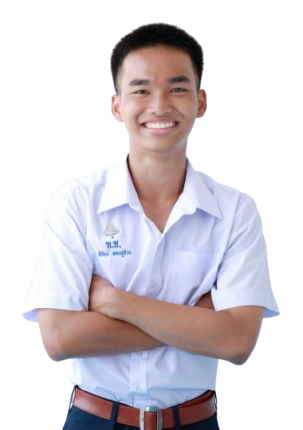
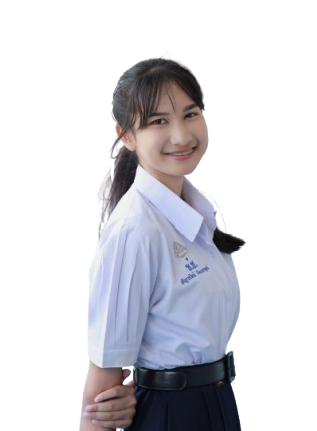
Add files via upload

diff --git a/style.css b/style.css
@@ -1181,7 +1181,7 @@ body::before {
     z-index: 1; 
     
     /* 🎨 ขั้นตอนที่ 1: ปรับเนื้ออักษรให้จางมากๆ จนแทบกลืนไปกับพื้นหลัง */
-    background: linear-gradient(180deg, rgba(255, 255, 255, 0.015) 0%, rgba(59, 130, 246, 0.05) 100%);
+    background: linear-gradient(180deg, rgba(255, 255, 255, 0.04) 0%, rgba(59, 130, 246, 0.08) 100%);
     -webkit-background-clip: text;
     -webkit-text-fill-color: transparent;
     background-clip: text;
@@ -1192,8 +1192,8 @@ body::before {
     /* ✨ ขั้นตอนที่ 3: ใส่เอฟเฟกต์เบลอตัวอักษรเบาๆ เพื่อลบความเหลี่ยมคม 
        ร่วมกับการซ้อนเงาฟุ้งสเต็ปนุ่มนวล (Soft Glow) */
     filter: blur(2px)
-            drop-shadow(0 0 20px rgba(59, 130, 246, 0.5))
-            drop-shadow(0 0 60px rgba(59, 130, 246, 0.2));
+            drop-shadow(0 0 20px rgba(59, 130, 246, 1.5))
+            drop-shadow(0 0 60px rgba(59, 130, 246, 1));
     
     user-select: none;     
     pointer-events: none;  
@@ -1229,5 +1229,30 @@ body::before {
         padding-left: 20px !important;
         padding-right: 20px !important;
         text-align: center; /* เผื่ออยากให้ข้อความอยู่กึ่งกลางบนมือถือ */
+    }
+}
+
+/* ==========================================================================
+   🚫 FIX: บังคับให้ชื่อ-นามสกุลของสมาชิกอยู่ในบรรทัดเดียวกันเสมอ ไม่ตกบรรทัด
+   ========================================================================== */
+
+.member-info .name {
+    white-space: nowrap; /* 🚫 ห้ามขึ้นบรรทัดใหม่เด็ดขาด ยาวแค่ไหนก็ให้อยู่แถวเดิม */
+    word-break: keep-all; /* ป้องกันการตัดแบ่งกลางคำ */
+}
+
+/* 📱 ควบคุมขนาดเพิ่มเติมเมื่อแสดงผลบนหน้าจอมือถือ */
+@media screen and (max-width: 768px) {
+    .member-info .name {
+        /* ปรับขนาดฟอนต์บนมือถือลงเล็กน้อย (เช่น 1.5rem ถึง 1.8rem) 
+           เพื่อให้ชื่อที่ยาวมากๆ ยังสามารถยัดลงในหน้าจอมือถือได้พอดีโดยไม่ล้นขอบครับ */
+        font-size: 1.6rem !important; 
+    }
+}
+
+@media screen and (max-width: 480px) {
+    .member-info .name {
+        font-size: 1.4rem !important;
+        letter-spacing: -0.5px; /* บีบระยะห่างตัวอักษรให้แคบลงเพื่อประหยัดพื้นที่ */
     }
 }

diff --git a/index.html b/index.html
@@ -65,7 +65,7 @@
                     <div class="member-info">
                         <span class="role-text">#01 / PRESIDENT</span>
                         <h3 class="role-title">ประธานพรรค</h3>
-                        <h2 class="name">แสงอรุณ ไพโรจน์</h2>
+                        <h2 class="name">แสงอรุณ  ไพโรจน์</h2>
 
                         <div class="member-social">
                             <a href="https://instagram.com/sxxzl_p"
@@ -88,13 +88,13 @@
                     <div class="member-info">
                         <span class="role-text">#02 / VICE PRESIDENT</span>
                         <h3 class="role-title">รองประธานพรรค</h3>
-                        <h2 class="name">ธีรัตม์ ทองชูช่วย</h2>
+                        <h2 class="name">ธัญวรัตน์  รัตนกาญจน์</h2>
 
                         <div class="member-social">
-                            <a href="https://instagram.com/tenn_tn10"
+                            <a href="https://instagram.com/yyieeim"
                                 target="_blank" class="instagram-link">
                                 <i class="fa-brands fa-instagram ig-icon"></i>
-                                @tenn_tn10
+                                @yyieeim
                             </a>
                         </div>
                     </div>
@@ -106,12 +106,20 @@
 
                 <div class="section-container">
                     <div class="member-image-wrapper">
-                        <img src="members/ประธาน.png" alt="เลขานุการพรรค">
+                        <img src="members/เลขา.png" alt="เลขาธิการพรรค">
                     </div>
                     <div class="member-info">
-                        <span class="role-text">#03 / SECRETARY</span>
-                        <h3 class="role-title">เลขานุการพรรค</h3>
-                        <h2 class="name">แสงอรุณ ไพโรจน์</h2>
+                        <span class="role-text">#01 / SECRETARY</span>
+                        <h3 class="role-title">เลขาธิการพรรค</h3>
+                        <h2 class="name">ปัณณิกา  มัณฑะนานนท์</h2>
+
+                        <div class="member-social">
+                            <a href="https://instagram.com/puuuuuuuuuuuu.n"
+                                target="_blank" class="instagram-link">
+                                <i class="fa-brands fa-instagram ig-icon"></i>
+                                @puuuuuuuuuuuu.n
+                            </a>
+                        </div>
                     </div>
                 </div>
             </section>
